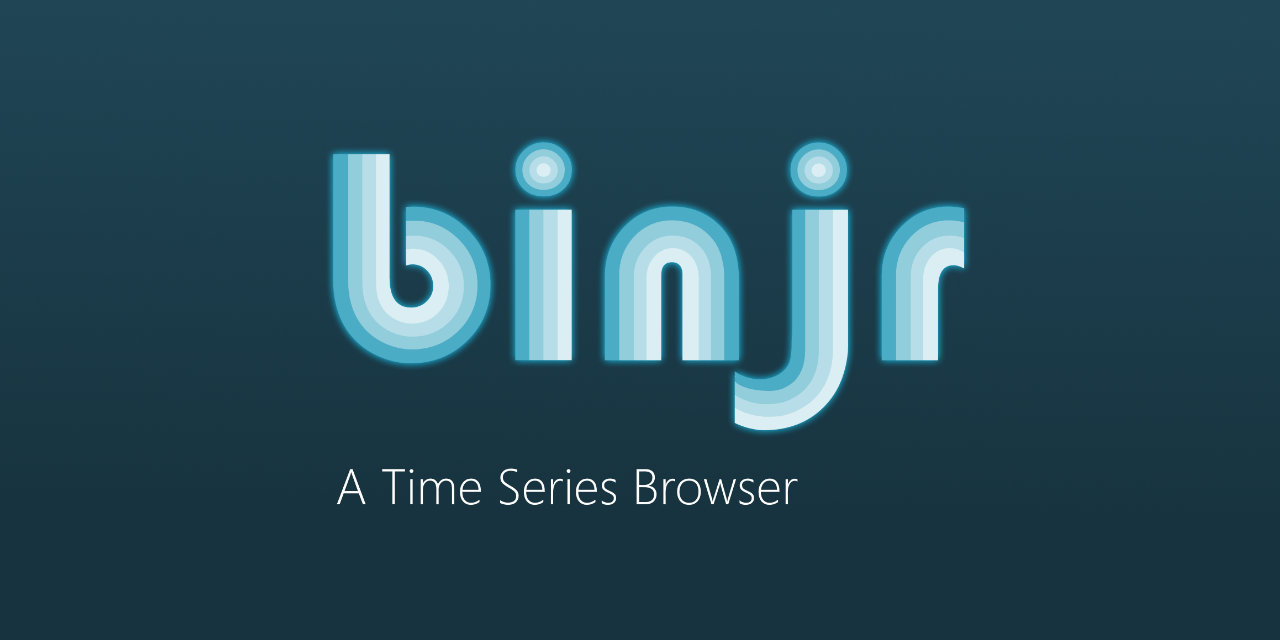
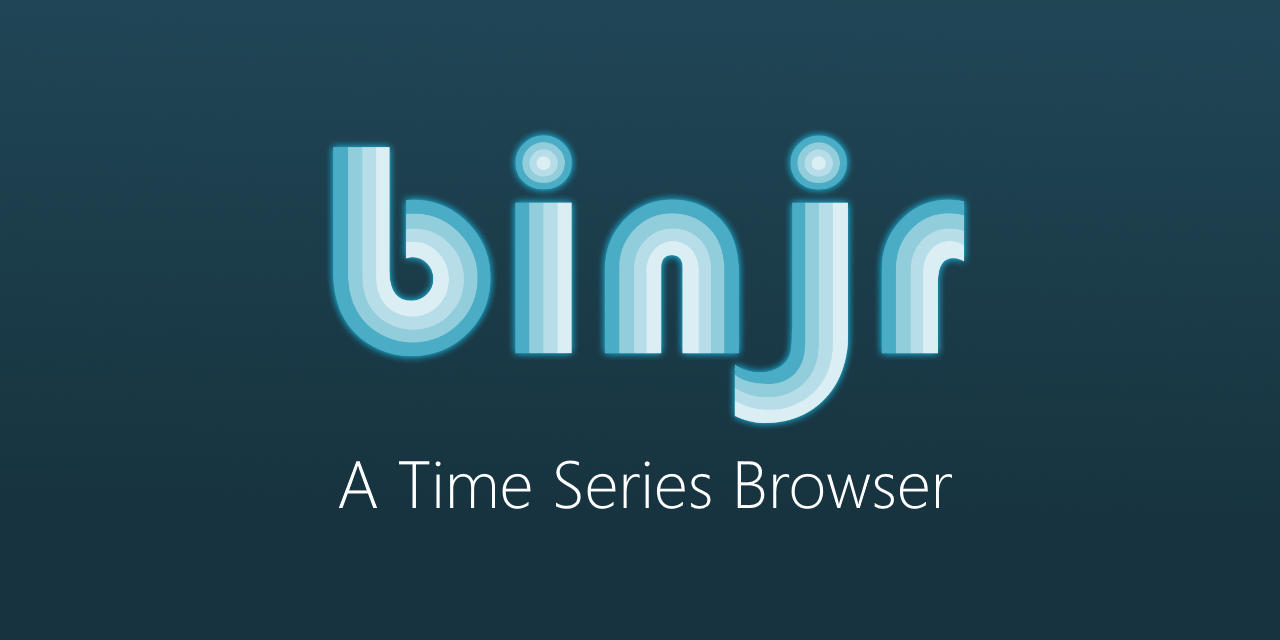
Updated landing page social card image

diff --git a/docs/index.html b/docs/index.html
@@ -4,7 +4,7 @@
 <head>
     <meta charset="utf-8"/>
     <meta name="viewport" content="width=device-width,initial-scale=1"/>
-    <meta name="binjr, a time series browser"/>
+    <meta name="binjr - A Time Series Browser"/>
     <meta property="og:site_name" content="binjr"/>
     <meta property="og:type" content="object"/>
     <meta property="og:url" content="https://binjr.eu"/>
